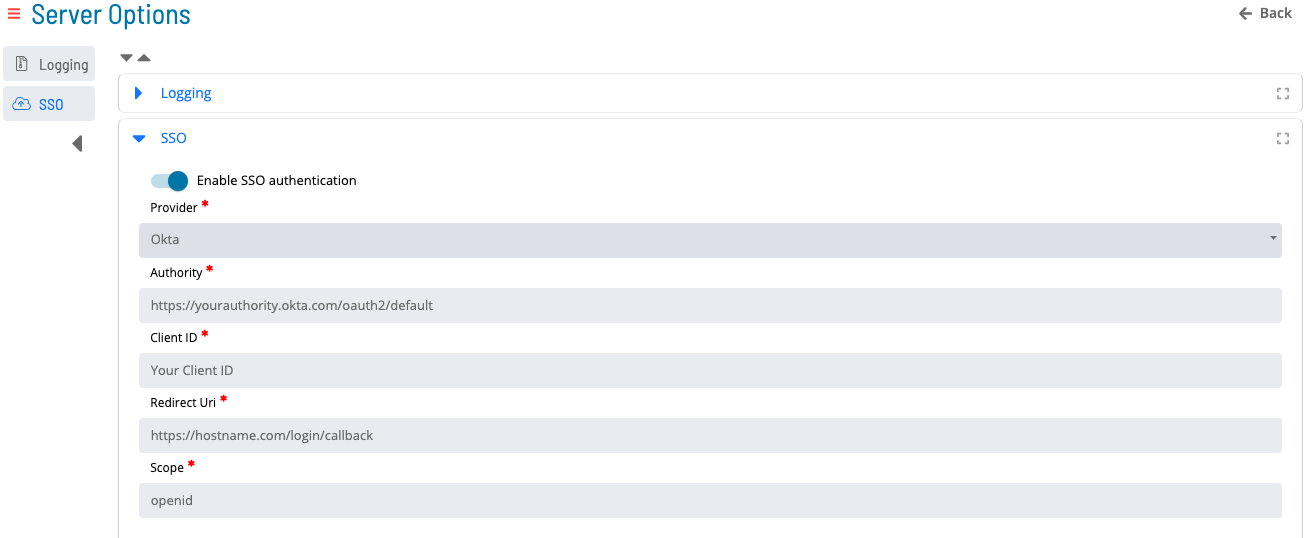
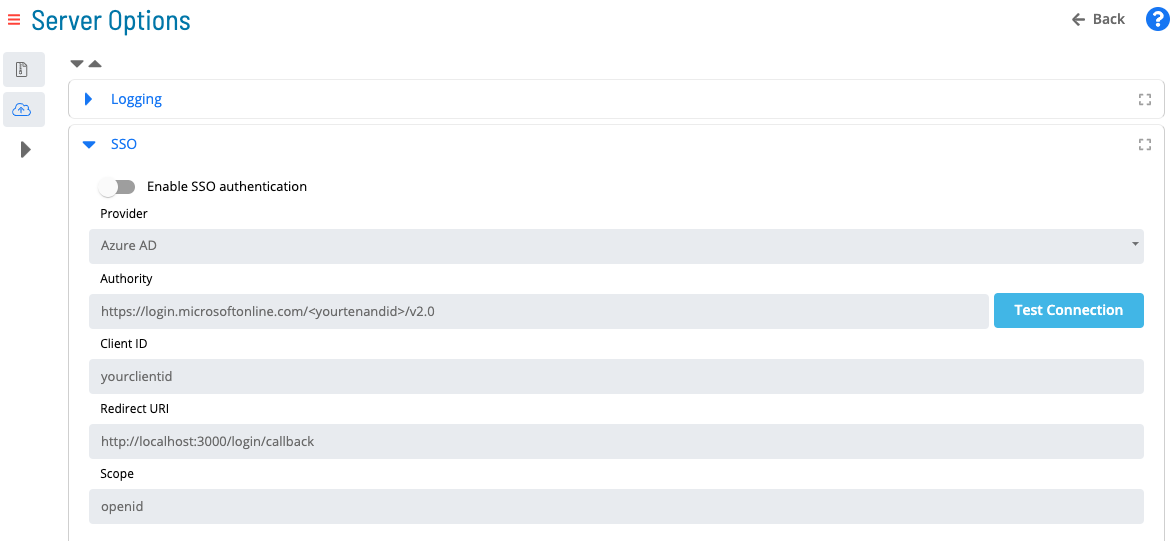
edited images for SSO and added troubleshooting notes for connecting with OIDC applications

diff --git a/docs/Files/UI/Solution-Manager/Library/ServerOptions/Managing-SSO-Configurations.md b/docs/Files/UI/Solution-Manager/Library/ServerOptions/Managing-SSO-Configurations.md
@@ -30,6 +30,12 @@ To configure SSO Settings, go to **Library** > **Server Options** > click on the
 
 \* OpenID Connect (OIDC) is an open authentication protocol that works on top of the OAuth 2.0 (OAuth2) framework.
 
+#### Test Connection Button
+
+![Server Options - Authority Test Connection](../../../../../Resources/Images/SM/Library/ServerOptions/sso-test-connection.png "Authority Test Connection Button")
+
+The **test connection button** retrieves metadata from the identity provider (IdP) by using the value specified in the **Authority** field. The **Authority** field is vital to establish a proper configuration with the IdP and enable successful communication with the OpenID Connect application.
+
 #### Group Mappings
 
 ![Server Options - SSO Group Mappings](../../../../../Resources/Images/SM/Library/ServerOptions/sso-group-mappings.png "SSO Group Mappings")
@@ -216,6 +222,19 @@ This document describes the steps needed to create a custom application in Azure
     - https://graph.microsoft.com/v1.0/me : From this call, we will retrieve the property **userPrincipalName** which is the value of the authenticated user's username (email). This will be used as the opcon identifier inside Solution Manager.
     - https://graph.microsoft.com/v1.0/me/getMemberGroups : From this call, we will be able to retrieve a list of IDs of groups that the authenticated user belongs to.
     - https://graph.microsoft.com/v1.0/groups/{group-guid} : From this call, we will retrieve the **displayName** property which will be mapped against an existing group.
+
+:::
+
+:::note
+Common errors when connection to your identity provider (IdP) OpenID Connection (OIDC) applications:
+
+- Invalid Redirect URI: Ensure that the redirect URI specified in the SSO configuration matches the redirect URI configured in the OIDC application for your IdP provider. Mismatched or incorrect redirect URIs can prevent successful authentication.
+
+- Incorrect Authority: Validate that the authority (OIDC provider URL) is specified in your application's configuration for your IdP. Any mismatch in the authority value will result in connection errors and authentication failures.
+
+- Invalid Client ID: Verify that the client ID assigned in the SSO configuration is correct and matches the client ID expected by your IdP. Using an incorrect client ID will lead to authentication errors and prevent successful interaction with the OIDC application.
+
+By addressing these common errors related to redirect URI, authority, and client ID, you can enhance the connectivity and authentication experience with your OIDC application.
 
 :::
 
